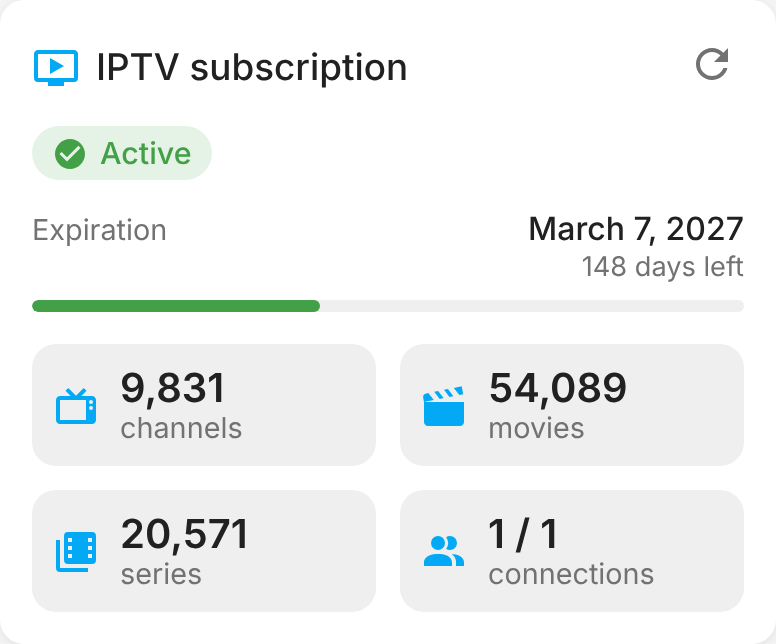
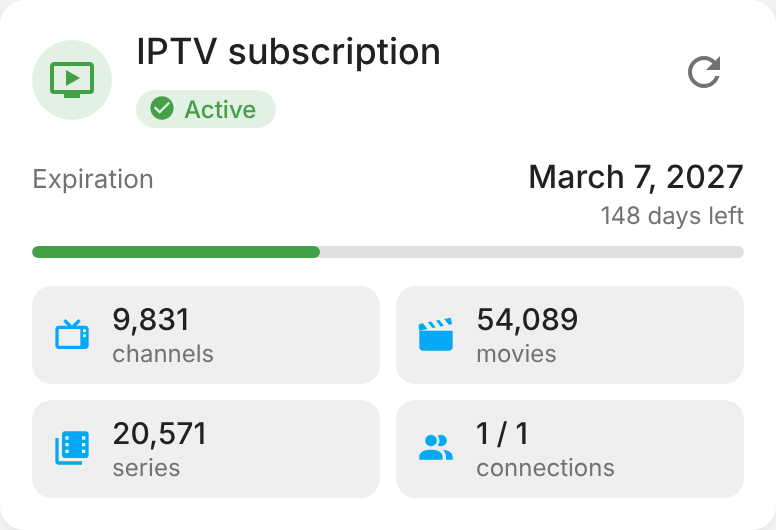
Harmonize the card and release flow (2.1.0) (#1)
Shared header (40 px tinted icon, 18 px name, status pills), theme colours
with Home Assistant fallbacks, shared tile sizes and getGridOptions.
Release on push to main, release notes and branch cleanup workflows,
README on the shared plan.

Claude-Session: https://claude.ai/code/session_01FyVHJkuQopwM66ytqwsrgB

diff --git a/custom_components/iptv_xtream/frontend/iptv-card.js b/custom_components/iptv_xtream/frontend/iptv-card.js
@@ -7,7 +7,7 @@
  *
  * https://github.com/juju35/ha-iptv
  */
-var IPTV_CARD_VERSION = '2.0.3';
+var IPTV_CARD_VERSION = '2.1.0';
 var IPTV_DOMAIN = 'iptv_xtream';
 
 // ── i18n ──────────────────────────────────────────────────────────────────────
@@ -127,6 +127,10 @@ class IptvCard extends HTMLElement {
     this._render();
   }
 
+  getGridOptions() {
+    return { columns: 6, min_columns: 4 };
+  }
+
   getCardSize() {
     return 3;
   }
@@ -230,6 +234,8 @@ class IptvCard extends HTMLElement {
     var title = this._config.title || this._t('default_title');
 
     var body;
+    var status = '';
+    var level = v ? v.state : 'idle';
     if (!this._hass) {
       body = '<div class="msg">' + this._t('loading') + '</div>';
     } else if (!data) {
@@ -251,12 +257,12 @@ class IptvCard extends HTMLElement {
             <ha-icon icon="${icon}"></ha-icon>
             <div><div class="num">${n != null ? nf.format(n) : '—'}</div><div class="lbl">${this._t(key)}</div></div>
           </div>`;
+      status = `
+        <div class="chips">
+          <span class="chip ${v.state}" data-entity="status"><ha-icon icon="${icon}"></ha-icon>${esc(v.statusLabel)}</span>
+          ${v.d.is_trial ? '<span class="chip idle">' + this._t('trial') + '</span>' : ''}
+        </div>`;
       body = `
-        <div class="status ${v.state}" data-entity="status">
-          <ha-icon icon="${icon}"></ha-icon>
-          <span>${esc(v.statusLabel)}</span>
-          ${v.d.is_trial ? '<span class="tag">' + this._t('trial') + '</span>' : ''}
-        </div>
         <div class="exp" data-entity="expiration">
           <div class="row">
             <span class="lbl">${this._t('expiration')}</span>
@@ -278,42 +284,45 @@ class IptvCard extends HTMLElement {
 
     this.shadowRoot.innerHTML = `
       <style>
-        ha-card { padding: 16px; }
-        .head { display:flex; align-items:center; justify-content:space-between; margin-bottom:12px; }
-        .title { display:flex; align-items:center; gap:8px; font-size:1.15em; font-weight:500; }
-        .title ha-icon { color: var(--state-icon-color, var(--primary-color)); }
-        button { background:none; border:none; cursor:pointer; color:var(--secondary-text-color); padding:4px; border-radius:50%; }
+        :host { --iptv-ok: var(--success-color, #43a047); --iptv-warn: var(--warning-color, #ffa600); --iptv-crit: var(--error-color, #db4437); }
+        ha-card { padding: 16px; display: flex; flex-direction: column; gap: 14px; }
+        .ok { --c: var(--iptv-ok); } .warning { --c: var(--iptv-warn); } .error { --c: var(--iptv-crit); } .idle { --c: var(--secondary-text-color); }
+        .header { display: flex; align-items: center; gap: 12px; }
+        .hicon { width: 40px; height: 40px; border-radius: 50%; flex: none; display: flex; align-items: center; justify-content: center;
+                 color: var(--c, var(--primary-color)); background: color-mix(in srgb, var(--c, var(--primary-color)) 15%, transparent); --mdc-icon-size: 24px; }
+        .hicon.idle { --c: var(--primary-color); }
+        .titles { flex: 1; min-width: 0; }
+        .name { font-size: 18px; font-weight: 500; line-height: 1.25; color: var(--primary-text-color); white-space: nowrap; overflow: hidden; text-overflow: ellipsis; }
+        .chips { display: flex; flex-wrap: wrap; gap: 6px; margin-top: 6px; }
+        .chip { display: inline-flex; align-items: center; gap: 4px; padding: 2px 10px 2px 6px; border-radius: 12px; font-size: 12px; font-weight: 500;
+                color: var(--c); background: color-mix(in srgb, var(--c) 15%, transparent); --mdc-icon-size: 14px; }
+        .chip.idle { padding-left: 10px; }
+        button { background:none; border:none; cursor:pointer; color:var(--secondary-text-color); padding:8px; border-radius:50%; align-self: flex-start; display: flex; }
         button:hover { background: var(--secondary-background-color); }
         button.spin ha-icon { animation: spin 1s linear infinite; }
         @keyframes spin { to { transform: rotate(360deg); } }
-        .status { display:inline-flex; align-items:center; gap:6px; padding:4px 10px; border-radius:16px; font-weight:500; font-size:.95em; margin-bottom:14px; }
-        .status ha-icon { --mdc-icon-size:18px; }
-        .status.ok { color: var(--success-color, #2e7d32); background: rgba(76,175,80,.15); }
-        .status.warning { color: var(--warning-color, #ef6c00); background: rgba(255,152,0,.15); }
-        .status.error { color: var(--error-color, #c62828); background: rgba(244,67,54,.15); }
-        .tag { font-size:.75em; padding:1px 6px; border-radius:8px; background: var(--secondary-background-color); color: var(--secondary-text-color); }
-        .row { display:flex; justify-content:space-between; align-items:baseline; }
-        .lbl { color: var(--secondary-text-color); font-size:.9em; }
+        .row { display:flex; justify-content:space-between; align-items:baseline; gap: 8px; }
+        .lbl { color: var(--secondary-text-color); font-size: 12px; }
+        .exp .lbl { font-size: 13px; }
         .val { font-weight:500; }
-        .sub { font-size:.85em; margin-top:2px; text-align:right; color: var(--secondary-text-color); }
-        .sub.warning { color: var(--warning-color, #ef6c00); }
-        .sub.error { color: var(--error-color, #c62828); }
-        .bar { height:6px; border-radius:3px; background: var(--secondary-background-color); margin-top:8px; overflow:hidden; }
-        .fill { height:100%; border-radius:3px; background: var(--success-color, #4caf50); }
-        .fill.warning { background: var(--warning-color, #ff9800); }
-        .fill.error { background: var(--error-color, #f44336); }
-        .stats { display:grid; grid-template-columns:1fr 1fr; gap:12px; margin-top:16px; }
-        .stat { display:flex; align-items:center; gap:10px; padding:10px; border-radius:12px; background: var(--secondary-background-color); }
-        .stat ha-icon { color: var(--primary-color); }
-        .num { font-size:1.25em; font-weight:600; line-height:1.2; }
+        .sub { font-size: 12px; margin-top:2px; text-align:right; color: var(--secondary-text-color); }
+        .sub.warning, .sub.error { color: var(--c); }
+        .bar { height:6px; border-radius:3px; background: var(--divider-color, rgba(127,127,127,.25)); margin-top:8px; overflow:hidden; }
+        .fill { height:100%; border-radius:3px; background: var(--c, var(--iptv-ok)); transition: width .6s ease; }
+        .stats { display:grid; grid-template-columns:1fr 1fr; gap:8px; }
+        .stat { display:flex; align-items:center; gap:10px; padding:8px 10px; border-radius:10px; min-width: 0;
+                background: var(--secondary-background-color, rgba(127,127,127,.08)); }
+        .stat ha-icon { color: var(--primary-color); --mdc-icon-size: 20px; flex: none; }
+        .num { font-size: 15px; font-weight: 500; line-height: 1.2; }
         .msg { color: var(--secondary-text-color); padding:8px 0; }
-        .msg.err { color: var(--error-color, #c62828); }
+        .msg.err { color: var(--iptv-crit); }
         [data-entity] { cursor:pointer; }
         .stat:hover { filter: brightness(0.95); }
       </style>
       <ha-card>
-        <div class="head">
-          <div class="title"><ha-icon icon="mdi:television-play"></ha-icon>${esc(title)}</div>
+        <div class="header">
+          <div class="hicon ${level}"><ha-icon icon="mdi:television-play"></ha-icon></div>
+          <div class="titles"><div class="name">${esc(title)}</div>${status}</div>
           <button class="${this._loading ? 'spin' : ''}" title="${this._t('refresh')}"><ha-icon icon="mdi:refresh"></ha-icon></button>
         </div>
         ${body}

diff --git a/custom_components/iptv_xtream/const.py b/custom_components/iptv_xtream/const.py
@@ -1,7 +1,7 @@
 """Constants for the IPTV Xtream integration."""
 
 DOMAIN = "iptv_xtream"
-VERSION = "2.0.3"
+VERSION = "2.1.0"
 
 CONF_SCAN_INTERVAL = "scan_interval"
 DEFAULT_SCAN_INTERVAL = 60  # minutes

diff --git a/README.md b/README.md
@@ -1,6 +1,6 @@
 <img src="custom_components/iptv_xtream/brand/icon.png" alt="" width="96" align="right">
 
-# IPTV Xtream for Home Assistant
+# ha-iptv
 
 [![HACS](https://img.shields.io/badge/HACS-Custom-41BDF5.svg)](https://github.com/hacs/integration)
 [![HACS Validation](https://github.com/juju35/ha-iptv/actions/workflows/hacs.yml/badge.svg)](https://github.com/juju35/ha-iptv/actions/workflows/hacs.yml)
@@ -11,8 +11,6 @@
 Home Assistant integration and Lovelace card that track an **IPTV subscription** using the **Xtream Codes API**: status, expiration date, days left, number of live channels, movies and series, and connections.
 
 [![Open your Home Assistant instance and open a repository inside the Home Assistant Community Store.](https://my.home-assistant.io/badges/hacs_repository.svg)](https://my.home-assistant.io/redirect/hacs_repository/?owner=juju35&repository=ha-iptv&category=integration)
-
-![iptv-card](https://raw.githubusercontent.com/juju35/ha-iptv/main/screenshots/card.png)
 
 ## Features
 
@@ -29,9 +27,12 @@ Home Assistant integration and Lovelace card that track an **IPTV subscription**
 
 Home Assistant queries the Xtream server itself, so it works even when the server is plain `http://` without CORS headers or is only reachable from your network. Only a small summary is stored: the full channel, movie and series lists never reach the browser.
 
-## Installation
+## Prerequisites
 
-Requires Home Assistant 2025.2 or newer.
+- Home Assistant 2025.2 or newer
+- An IPTV subscription with Xtream Codes API access (server URL, username and password)
+
+## Installation
 
 ### Via HACS (recommended)
 
@@ -50,7 +51,20 @@ Or manually:
 2. Unzip it into `/config/custom_components/iptv_xtream/`
 3. Restart Home Assistant
 
-## Setup
+### Upgrading from 1.x (shell_command)
+
+Version 2.0 replaces the `shell_command` with a real integration, and the repository was renamed from `ha-iptv-card` to `ha-iptv`:
+
+1. In HACS, remove the old **IPTV Subscription Card** (Dashboard), then the old `https://github.com/juju35/ha-iptv-card` custom repository, and the `/hacsfiles/ha-iptv-card/iptv-card.js` or `/local/iptv-card.js` resource if it is still listed in **Settings → Dashboards → Resources**
+2. Add `https://github.com/juju35/ha-iptv` as an **Integration** custom repository, install **IPTV Xtream**, restart and add your account
+3. Remove `iptv_xtream:` from `shell_command:` in `configuration.yaml`
+4. In your cards, remove `url`, `username`, `password`, `refresh_interval` and `service`: the card now reads the integration entities
+
+### Removal
+
+Delete the account in **Settings → Devices & services → IPTV Xtream**, then remove the integration in HACS and restart. Deleting the last account also removes the card resource. Remove the cards from your dashboards first, or they will show a "no subscription found" message.
+
+## Configuration
 
 [![Add the integration](https://my.home-assistant.io/badges/config_flow_start.svg)](https://my.home-assistant.io/redirect/config_flow_start/?domain=iptv_xtream)
 
@@ -64,7 +78,7 @@ Or manually:
 
 The credentials are checked before the account is added. Add the integration once per account. The URL and credentials can be changed later with **⋮ → Reconfigure**, and the refresh interval (default 60 minutes, minimum 5) with **Configure**.
 
-## Entities
+### Entities
 
 Each account is a device named `<username> @ <server>`, with these entities. `<account>` below is that name as an entity id, e.g. `sensor.john_myserver_com_status` for `john @ myserver.com`; entity names follow your Home Assistant language.
 
@@ -94,7 +108,7 @@ actions:
       message: "IPTV subscription expires in {{ states('sensor.my_account_days_left') }} days"
 ```
 
-## Card
+### Card
 
 The card is available in the card picker as **IPTV Subscription Card**, with a visual editor. With a single account no option is needed:
 
@@ -102,7 +116,7 @@ The card is available in the card picker as **IPTV Subscription Card**, with a v
 type: custom:iptv-card
 ```
 
-### Options reference
+#### Options reference
 
 | Option | Required | Default | Description |
 |---|---|---|---|
@@ -113,27 +127,33 @@ type: custom:iptv-card
 
 The ⟳ button asks the integration to query the server right away.
 
-## Upgrading from 1.x (shell_command)
+## Screenshots
 
-Version 2.0 replaces the `shell_command` with a real integration, and the repository was renamed from `ha-iptv-card` to `ha-iptv`:
-
-1. In HACS, remove the old **IPTV Subscription Card** (Dashboard), then the old `https://github.com/juju35/ha-iptv-card` custom repository, and the `/hacsfiles/ha-iptv-card/iptv-card.js` or `/local/iptv-card.js` resource if it is still listed in **Settings → Dashboards → Resources**
-2. Add `https://github.com/juju35/ha-iptv` as an **Integration** custom repository, install **IPTV Xtream**, restart and add your account
-3. Remove `iptv_xtream:` from `shell_command:` in `configuration.yaml`
-4. In your cards, remove `url`, `username`, `password`, `refresh_interval` and `service`: the card now reads the integration entities
+![iptv-card](https://raw.githubusercontent.com/juju35/ha-iptv/main/screenshots/card.png)
 
 ## How it works
 
 The integration polls the Xtream Codes `player_api.php` endpoint for the account info (`user_info`) and the live, VOD and series lists (`get_live_streams`, `get_vod_streams`, `get_series`, fetched in parallel) and keeps only their sizes. The card is served by the integration at `/iptv_xtream/iptv-card.js` and registered in **Settings → Dashboards → Resources** when the integration starts (with YAML-managed resources, it is loaded on every page instead).
 
-## Removal
-
-Delete the account in **Settings → Devices & services → IPTV Xtream**, then remove the integration in HACS and restart. Deleting the last account also removes the card resource. Remove the cards from your dashboards first, or they will show a "no subscription found" message.
-
-## Security notes
+### Security notes
 
 - The credentials are stored in Home Assistant's config entries, not in the dashboard configuration: people who can edit a dashboard no longer see the password.
 - They are only sent to the Xtream server you configured, as `player_api.php` query parameters (that is how the Xtream API works, so prefer an `https://` URL when your provider offers one).
+
+## Development
+
+```bash
+pip install playwright && playwright install chromium
+python scripts/screenshots.py   # renders screenshots/card.png with a mock subscription
+```
+
+The card is plain JavaScript (`custom_components/iptv_xtream/frontend/iptv-card.js`), served by the integration: no build step.
+
+### Releasing
+
+1. Bump the version in `custom_components/iptv_xtream/manifest.json`, `VERSION` in `const.py` and `IPTV_CARD_VERSION` in `frontend/iptv-card.js`
+2. Add a `## <version>` section at the top of [CHANGELOG.md](CHANGELOG.md)
+3. Push to `main`: the **Release** workflow creates the tag and the GitHub release with `iptv_xtream.zip` and the changelog section as notes
 
 ## Translations
 

diff --git a/CHANGELOG.md b/CHANGELOG.md
@@ -1,25 +1,39 @@
 # Changelog
 
-## v2.0.3
+## 2.1.0
+
+### ✨ Card
+
+- Header shared with the other cards: 40 px icon tinted by the subscription status, 18 px name, status and trial as pills under the name.
+- Colours follow the theme (`success`, `warning`, `error`) with Home Assistant's defaults as fallback, tints with `color-mix`.
+- Tiles, labels and numbers use the same sizes as the other cards; sections view support (`getGridOptions`).
+
+### 🧹 Maintenance
+
+- Pushing a new version to `main` publishes the release with `iptv_xtream.zip`; release notes can be rewritten with the **Update release notes** workflow.
+- Merged branches are deleted by the **Clean up branches** workflow.
+- README follows the same plan as the other repositories.
+
+## 2.0.3
 
 ### 🧹 Maintenance
 
 - Python bytecode (`__pycache__`) is no longer shipped with the integration.
 - `python scripts/screenshots.py` renders the README screenshot with a mock subscription.
 
-## v2.0.2
+## 2.0.2
 
 ### 🐛 Fixes
 
 - The card is now added to **Settings → Dashboards → Resources** when the integration is set up (and kept up to date on upgrades), so it shows up in the card picker without adding anything by hand. It is removed with the last account. Dashboards whose resources are managed in YAML still get the card loaded on every page.
 
-## v2.0.1
+## 2.0.1
 
 ### 🐛 Fixes
 
 - Clicking an item of the card (status, expiration, channels, movies, series, connections) now opens the details of the matching entity, with its history.
 
-## v2.0.0
+## 2.0.0
 
 **IPTV Xtream is now a real Home Assistant integration.** The `shell_command` is gone: Home Assistant queries your Xtream server itself, and the card is installed with the integration.
 
@@ -49,10 +63,10 @@
 
 Requires Home Assistant 2025.2 or newer.
 
-## v1.1.0
+## 1.1.0
 
 - Movie (VOD) and series counts next to live channels.
 
-## v1.0.0
+## 1.0.0
 
 - First release: Lovelace card showing the status, expiration and live channel count of an Xtream Codes subscription, through `shell_command.iptv_xtream`.
